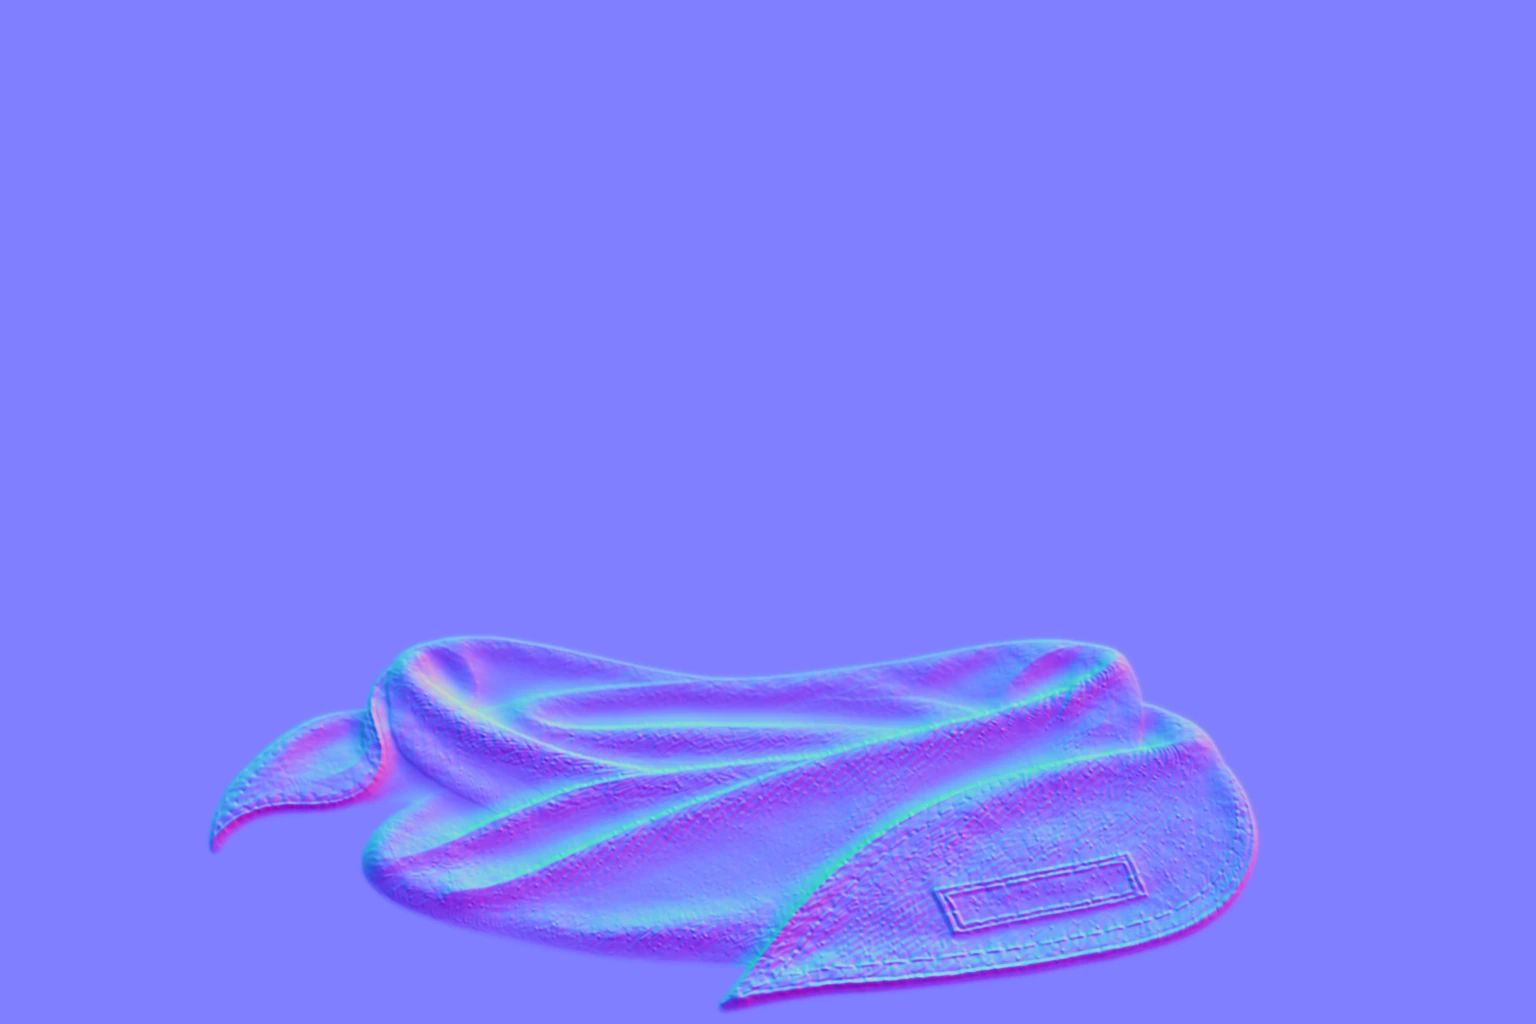
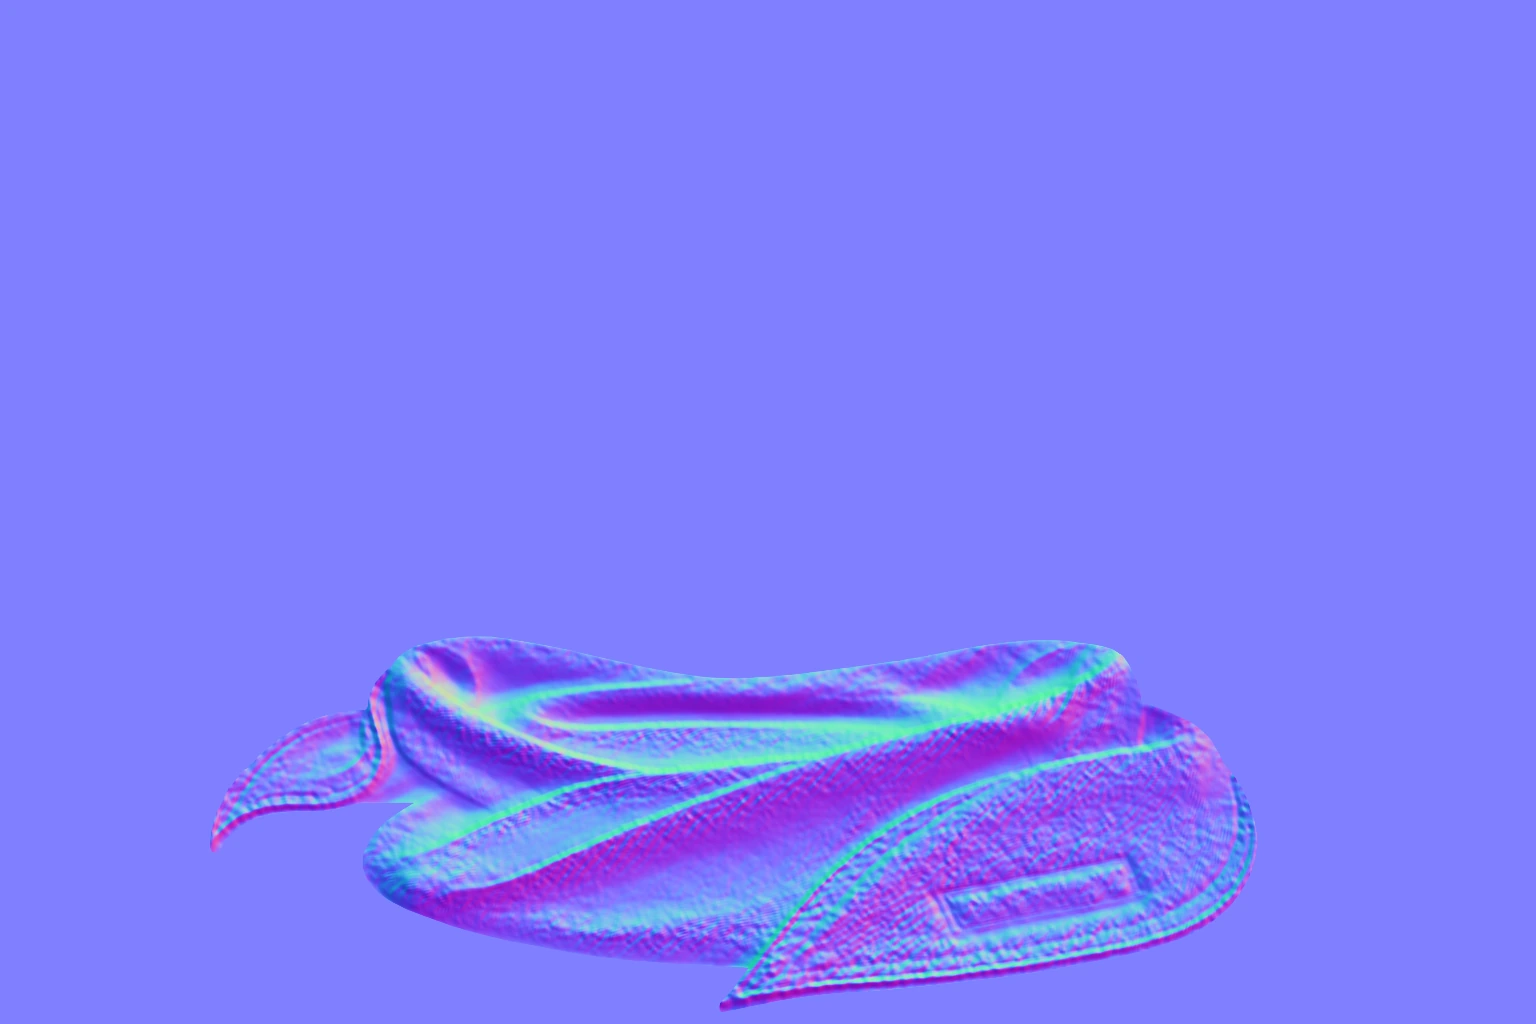
Scarf lighting: use ChatGPT's normal map
assets/source/rosie-scarf-normal.png (1536x1024, same framing as the
scarf layers, OpenGL convention: green = up) now feeds
assets/base/scarf-normal.webp. tools/scarf_normals.py uses it when it is
there and falls back to normals guessed from the unlit art.

Changed region(s): [[0.125, 0.625, 0.8438, 1.0]]

diff --git a/tools/scarf_normals.py b/tools/scarf_normals.py
@@ -8,7 +8,7 @@ Reads assets/source/rosie-scarf-unlit.png and rosie-scarf-bright-lit.png, writes
 (Two files rather than one with alpha: browsers may wipe the colour of pixels whose alpha is 0.)
 
 The normals are guessed from the shading of the unlit art: a blurred pass for the big folds, a sharp pass for
-the twill weave. A real normal map from ChatGPT can replace scarf-normal.webp later; keep the same 1536×1024 framing.
+the twill weave. If assets/source/rosie-scarf-normal.png exists (ChatGPT's, same 1536×1024 framing), it is used instead.
 """
 from pathlib import Path
 import numpy as np
@@ -40,6 +40,13 @@ nx *= solid; ny *= solid
 nz = np.ones_like(nx)
 n = np.stack([nx, ny, nz], -1)
 n /= np.linalg.norm(n, axis=-1, keepdims=True)
+
+# ChatGPT's painted normal map (same framing, green = up) wins when it's there; the guess above is the fallback
+painted = SRC / 'rosie-scarf-normal.png'
+if painted.exists():
+    n = np.asarray(Image.open(painted).convert('RGB'), np.float32) / 255 * 2 - 1
+    n /= np.maximum(np.linalg.norm(n, axis=-1, keepdims=True), 1e-4)
+    print('using', painted.name)
 
 reach = gaussian_filter(np.clip(bright - unlit, 0, None), 5)
 reach /= max(np.percentile(reach[alpha > .5], 99), 1e-4)
